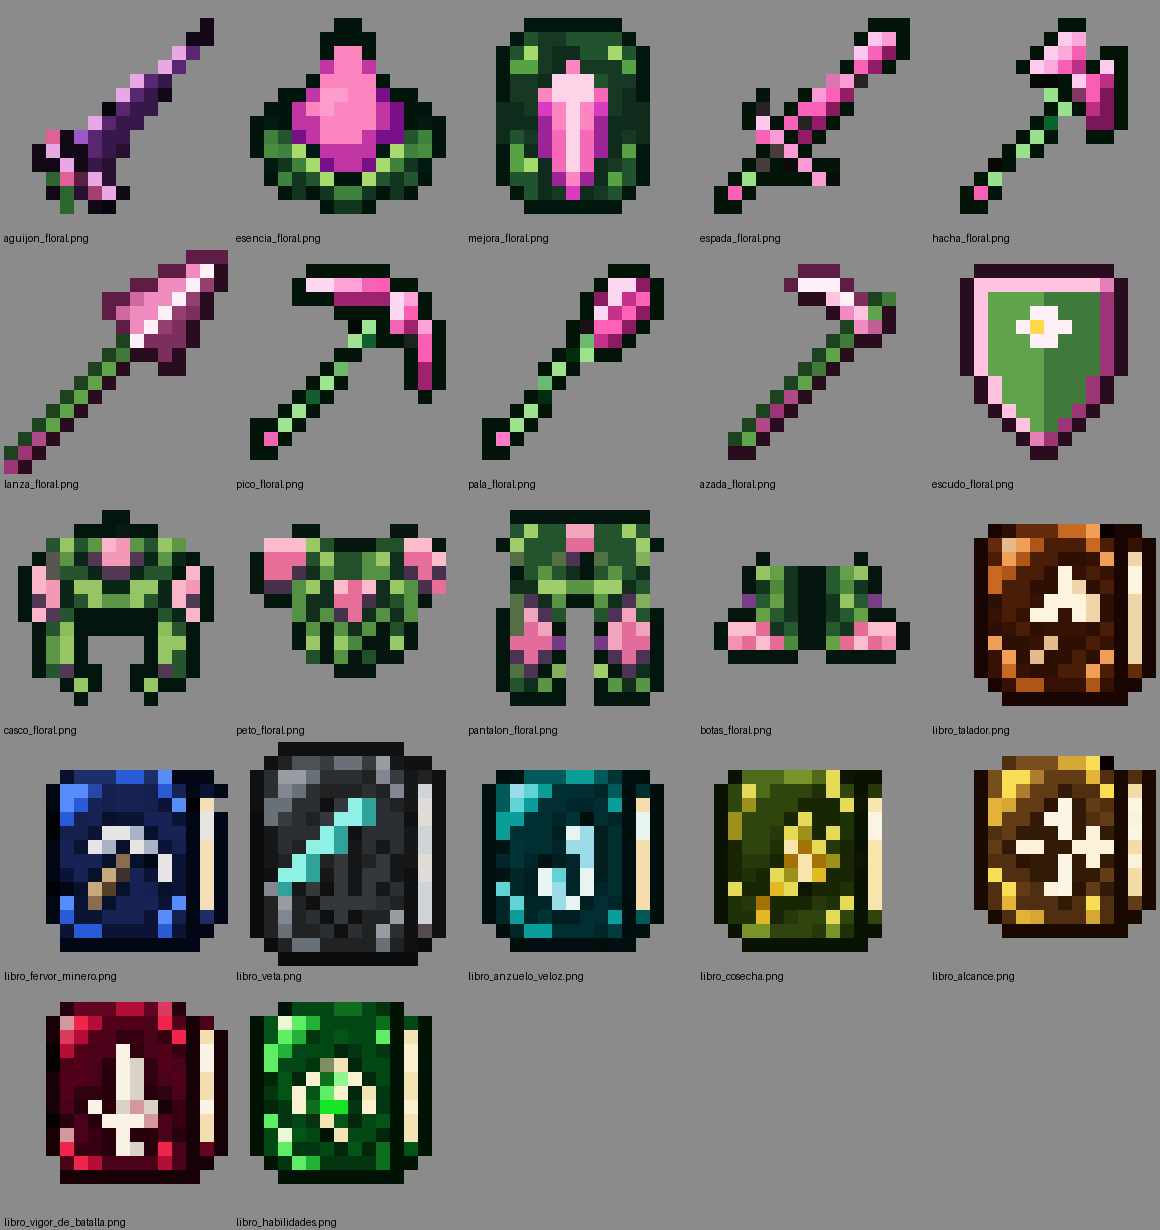
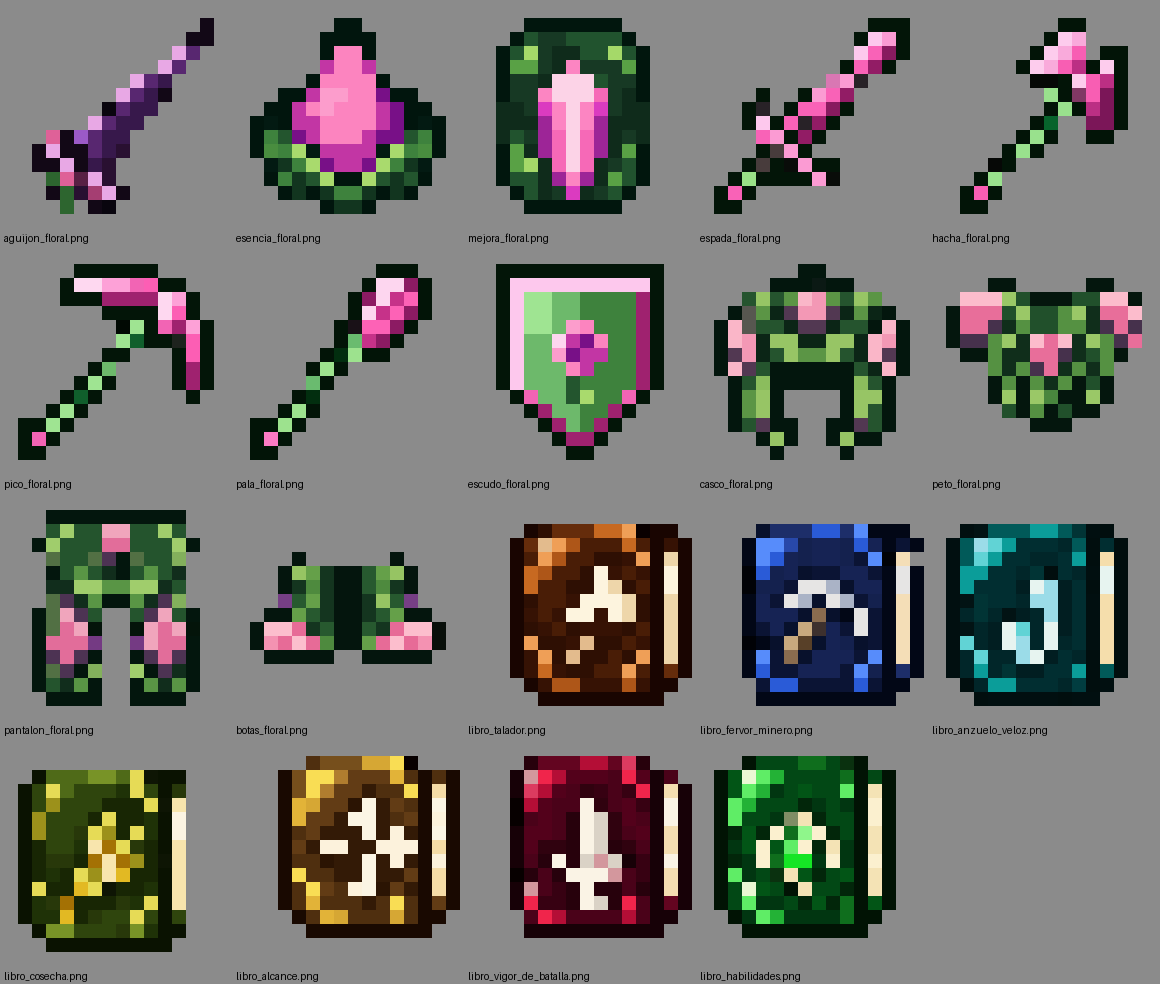
Version #75 - 26.2: escudo floral con el estilo nuevo y sin texturas provisorias de lanza, azada y libro de Veta
- Escudo Floral redibujado con el estilo floral nuevo (contorno verde casi negro, borde rosa, cara verde y flor)
- Se quitan del resource pack las texturas provisorias de la Lanza Floral, la Azada Floral y el libro de Veta (se hacen aparte)
- Vista previa floral-y-trabajos.png regenerada
- Docs: Mini Abeja Floral a escala 0,8 y número de versión de los ajustes floral, End y Warden Cave

diff --git a/docs/texturas-26.2.md b/docs/texturas-26.2.md
@@ -100,14 +100,12 @@ Los minerales y materiales van al final: `cristal_celestita`, `lingote_celestita
 
 [Texturas, modelos y efectos](../descargas/totems-sculk-ender/README.md). Ambos tienen iconos 16×16 y están registrados en `/giveqp`.
 
-## Lanza, Azada y Escudo Florales y libro de Veta (Version #67)
+## Escudo Floral (Version #74)
 
 | Item | Id | Cómo es |
 | --- | --- | --- |
-| Lanza Floral | `lanza_floral` | La de Netherite con la punta rosa y el mango verde. En la mano usa `item/spear_in_hand` (como la de Celestita) |
-| Azada Floral | `azada_floral` | La de Netherite con la cabeza rosa y el mango verde (`item/handheld`) |
-| Escudo Floral | `escudo_floral` | Escudo plano con el borde rosa, la cara verde y una flor blanca. `items/escudo_floral.json` cambia a `escudo_floral_bloqueando` al bloquear; los dos modelos tienen la posición del escudo vanilla pasada a un item plano |
-| Libro de Veta | `libro_veta` | Tapa gris de piedra con una veta de mineral celeste, para que no se confunda con el de Fervor Minero |
+| Escudo Floral | `escudo_floral` | Escudo plano con el estilo floral nuevo: contorno verde casi negro, borde rosa con sombra, cara verde partida y una flor rosa. `items/escudo_floral.json` cambia a `escudo_floral_bloqueando` al bloquear; los dos modelos tienen la posición del escudo vanilla pasada a un item plano |
 
-Todas son 16x16. `preview/floral-y-trabajos.png` ya las incluye. La posición del escudo en la mano no se pudo ver
-en un cliente: si queda corrida se ajustan los `display` de los dos modelos.
+Es 16x16. La posición del escudo en la mano no se pudo ver en un cliente: si queda corrida se ajustan los `display`
+de los dos modelos. Faltan las texturas de la Lanza Floral (`lanza_floral`), la Azada Floral (`azada_floral`) y el
+libro de Veta (`libro_veta`): se hacen aparte, con el item model `minecraft:<id>` como el resto.

diff --git a/docs/end-26.2.md b/docs/end-26.2.md
@@ -101,7 +101,7 @@ TNT, así no se encadenan.
 | Cristal de Celestita | 12% al romper un racimo de amatista en el End, 18% con el Pico de Celestita |
 | Lingote de Celestita | 4 cristales, 4 lingotes de oro y 1 Lingote Profundo |
 | Plantilla de Celestita | 4 Fragmentos Astrales, 2 Lingotes de Celestita, 2 ojos de ender y 1 plantilla de Netherite |
-| Herramienta de Celestita | Herrería: plantilla, herramienta floral (desde la Version #67, antes de Netherite) y 1 Lingote de Celestita |
+| Herramienta de Celestita | Herrería: plantilla, herramienta floral (desde la Version #74, antes de Netherite) y 1 Lingote de Celestita |
 | Peto de Warden Alado | Herrería: EnderKing Pearl, Peto de Warden y unas Elytras |
 
 Herramientas: espada, hacha, lanza, pico, pala y azada. Tienen 1 de daño más que las de Netherite (la espada 4 más:
@@ -151,7 +151,7 @@ florales, 20%) y el hacha, el pico y la pala atacan un poco más rápido que las
 florales. Las herramientas florales se pueden usar de base en la herrería. Las
 herramientas que ya existían conservan sus atributos viejos.
 
-## Celestita (Version #67)
+## Celestita (Version #74)
 
 - Las herramientas de Celestita solo salen de las florales: la línea es Netherite » Floral » Celestita, sin saltarse
   un paso. Con una herramienta de Netherite común la herrería no da resultado.

diff --git a/docs/abeja-floral-26.2.md b/docs/abeja-floral-26.2.md
@@ -50,7 +50,7 @@ El ataque de refuerzos ya no crea abejas vanilla: salen de 6 a 10 mobs florales,
 Floral. Llevan la marca `invocado_abeja_floral`, no sueltan drops florales y se
 van a los 30 segundos. Los que caminan bajan al suelo de la arena.
 
-La Corrupted Bee ahora es la **Mini Abeja Floral**: escala 0,6, nombre rosa,
+La Corrupted Bee ahora es la **Mini Abeja Floral**: escala 0,8, nombre rosa,
 partículas florales y 30% de soltar el **Aguijón Floral** (`aguijon_floral`).
 El id del mob sigue siendo `corrupted_bee`, así que la misión 14 y los spawners
 siguen igual.
@@ -63,7 +63,7 @@ también da **1 Esencia Floral** (`esencia_floral`).
 | Mejora Floral | Mesa de crafteo | 16 Carne Podrida Floral, 16 Ojo de Araña Floral, 16 Pólvora Floral, 16 Aguijón Floral, 1 Esencia Floral y 1 plantilla de mejora de Netherite |
 | Pieza floral | Herrería | Mejora Floral + pieza de Netherite (o escudo) + Bloque de Miel |
 
-Desde la Version #67 se gastan 16 de cada drop (con menos de 16 en alguna
+Desde la Version #74 se gastan 16 de cada drop (con menos de 16 en alguna
 casilla no sale nada) y la Mejora Floral **no se puede copiar**: hace falta
 una por pieza, así que el equipo completo (11 piezas) son 11 Esencias, 11
 plantillas de Netherite y 176 de cada drop. La herrería no acepta items custom

diff --git a/docs/warden-cave-26.2.md b/docs/warden-cave-26.2.md
@@ -63,7 +63,7 @@ de él.
 - Al activar la etapa con `/changes activar dos` sale un anuncio en el chat con
   lo que trae la Infested Warden Cave. Las otras etapas también anuncian lo suyo.
 
-## Ajustes de la Version #67
+## Ajustes de la Version #74
 
 - La armadura de Warden solo sale de la floral: en la herrería la base tiene que ser la pieza floral (Netherite »
   Floral » Warden). Con una pieza de Netherite común no da resultado.
